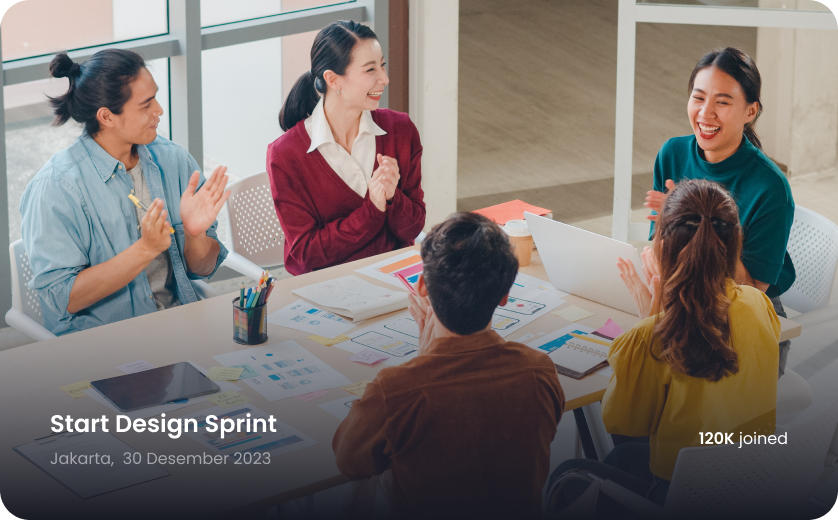
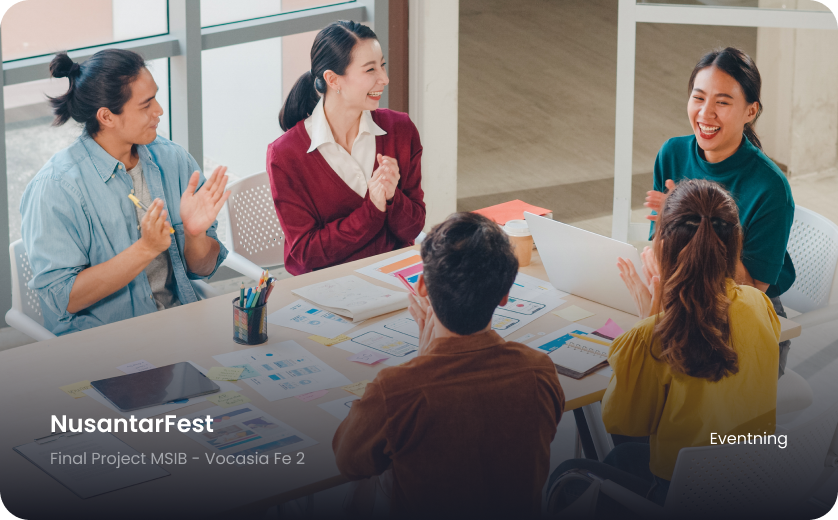
refactor : update image hero component

Changed region(s): [[0.0621, 0.8, 0.3723, 0.8923], [0.8377, 0.8308, 0.9308, 0.8615]]

diff --git a/index.html b/index.html
@@ -10,7 +10,7 @@
       name="keywords"
       content="nusantarafest, vocasia, website event, kucingscript"
     />
-    <meta name="author" content="Eventning Vocasia FE 2" />
+    <meta name="author" content="Eventning - Vocasia FE 2" />
     <meta
       name="description"
       content="NusantaraFest - Platform online yang didedikasikan untuk membantu masyarakat menemukan berbagai acara yang sesuai minat dan preferensi"
@@ -39,15 +39,15 @@
     />
     <meta
       property="og:image"
-      content="https://nusantarafest-a8004.web.app/images/logo.svg"
+      content="https://nusantarafest-a8004.web.app/images/2.png"
     />
     <meta
       property="og:image:alt"
       content="NusantaraFest - Platform online yang didedikasikan untuk membantu masyarakat menemukan berbagai acara yang sesuai minat dan preferensi"
     />
-    <meta property="og:image:width" content="210" />
-    <meta property="og:image:height" content="70" />
-    <meta property="og:image:type" content="image/jpeg" />
+    <meta property="og:image:width" content="838" />
+    <meta property="og:image:height" content="520" />
+    <meta property="og:image:type" content="image/png" />
     <!-- OPEN GRAPH -->
 
     <!-- TWITTER -->
@@ -66,7 +66,7 @@
     />
     <meta
       name="twitter:image"
-      content="https://nusantarafest-a8004.web.app/images/logo.svg"
+      content="https://nusantarafest-a8004.web.app/images/2.png"
     />
     <meta
       name="twitter:image:alt"
